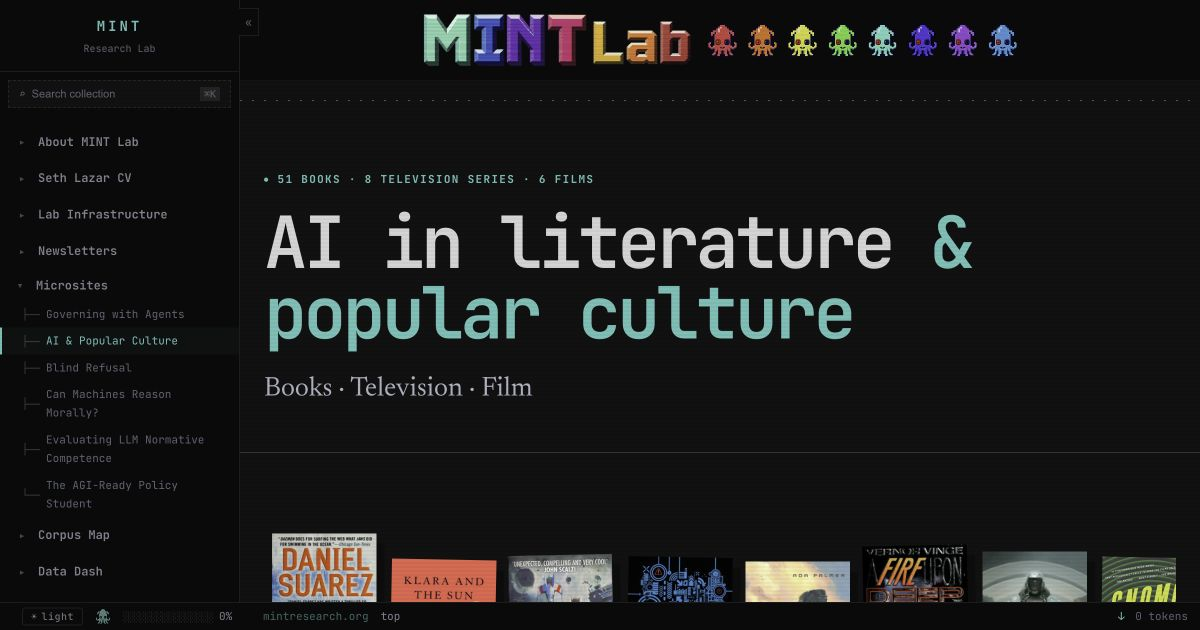
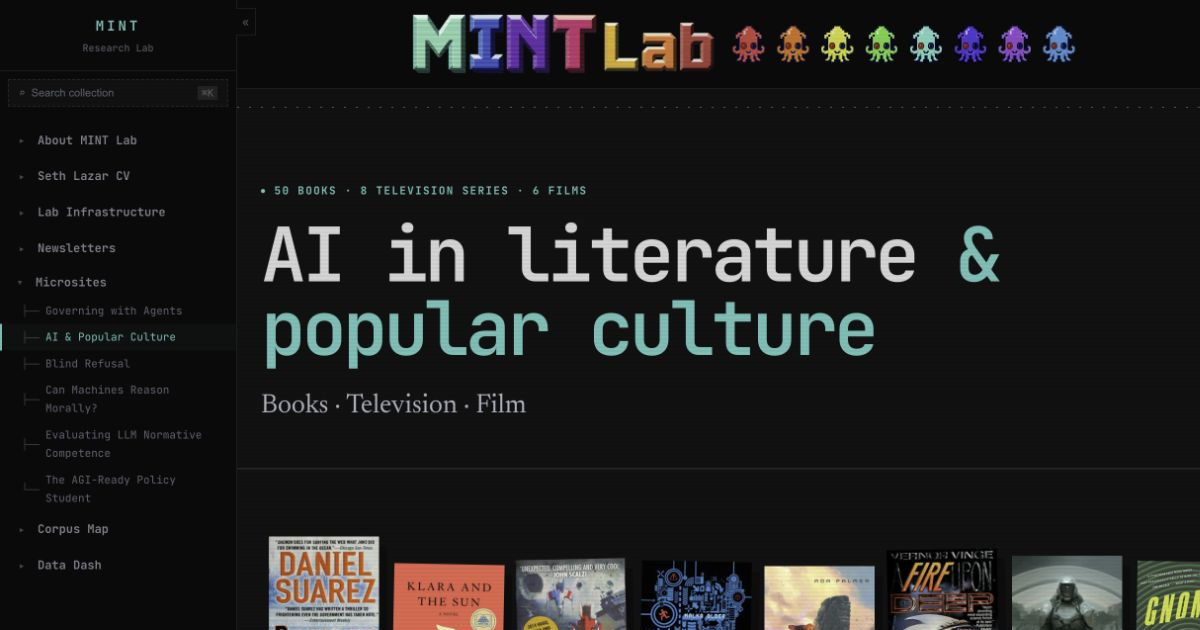
Remove unread Fall from AI culture collection

diff --git a/public/ai-culture/index.html b/public/ai-culture/index.html
@@ -4,15 +4,15 @@
   <meta charset="UTF-8">
   <meta name="viewport" content="width=device-width, initial-scale=1.0, viewport-fit=cover">
   <title>AI in Literature &amp; Popular Culture — MINT Lab</title>
-  <meta name="description" content="51 books, 8 television series, and 6 films about artificial intelligence and technological transformation.">
+  <meta name="description" content="50 books, 8 television series, and 6 films about artificial intelligence and technological transformation.">
   <meta property="og:title" content="AI in Literature &amp; Popular Culture — MINT Lab">
-  <meta property="og:description" content="51 books, 8 television series, and 6 films about artificial intelligence and technological transformation.">
+  <meta property="og:description" content="50 books, 8 television series, and 6 films about artificial intelligence and technological transformation.">
   <meta property="og:type" content="website">
   <meta property="og:url" content="https://mintresearch.org/ai-culture/">
   <meta property="og:image" content="https://mintresearch.org/assets/ai-culture/og-ai-culture.png">
   <meta name="twitter:card" content="summary_large_image">
   <meta name="twitter:title" content="AI in Literature &amp; Popular Culture — MINT Lab">
-  <meta name="twitter:description" content="51 books, 8 television series, and 6 films about artificial intelligence and technological transformation.">
+  <meta name="twitter:description" content="50 books, 8 television series, and 6 films about artificial intelligence and technological transformation.">
   <meta name="twitter:image" content="https://mintresearch.org/assets/ai-culture/og-ai-culture.png">
   <link rel="canonical" href="https://mintresearch.org/ai-culture/">
   <link rel="icon" type="image/x-icon" href="/favicon.ico">
@@ -61,7 +61,7 @@
   <main class="collection-page">
     <header class="collection-hero">
       <div class="collection-shell">
-        <span class="collection-kicker">51 books · 8 television series · 6 films</span>
+        <span class="collection-kicker">50 books · 8 television series · 6 films</span>
         <h1>AI in literature <span>&amp; popular culture</span></h1>
         <p class="collection-deck">Books · Television · Film</p>
       </div>
@@ -88,7 +88,7 @@
           <button class="filter-button" type="button" data-filter-value="film" aria-pressed="false">Film</button>
         </div>
         <label class="collection-search"><span aria-hidden="true">/</span><input id="collection-search" type="search" placeholder="Search titles or themes" aria-label="Search titles or themes"></label>
-        <span class="collection-count" id="collection-count" aria-live="polite">65 / 65</span>
+        <span class="collection-count" id="collection-count" aria-live="polite">64 / 64</span>
       </div>
 
       <div id="culture-items">

diff --git a/public/assets/collections/ai-culture.js b/public/assets/collections/ai-culture.js
@@ -362,14 +362,6 @@ const books = [
     tags: ['catastrophe', 'survival', 'institution building']
   },
   {
-    id: 'fall-or-dodge-in-hell', title: 'Fall; or, Dodge in Hell', author: 'Neal Stephenson', year: '2019',
-    cover: '/assets/ai-culture/covers/fall-or-dodge-in-hell.webp',
-    source: 'https://www.nealstephenson.com/fall%2C-or-dodge-in-hell.html',
-    sourceLabel: 'Neal Stephenson',
-    sourceQuote: 'Dodge’s family has his brain scanned and its data structures uploaded and stored in the cloud, until it can eventually be revived.',
-    tags: ['uploads', 'digital afterlife', 'platform power']
-  },
-  {
     id: 'termination-shock', title: 'Termination Shock', author: 'Neal Stephenson', year: '2021',
     cover: '/assets/ai-culture/covers/termination-shock.webp',
     source: 'https://www.nealstephenson.com/termination-shock.html',
